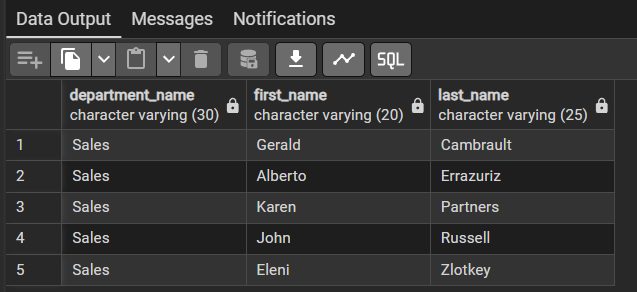
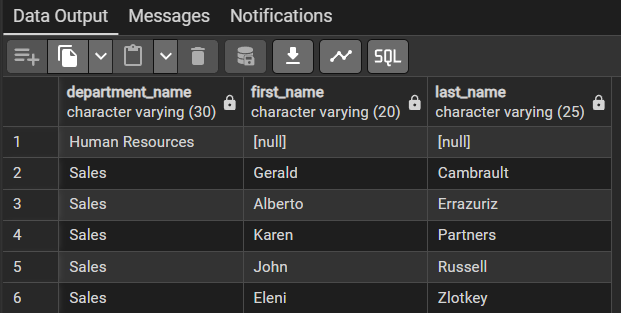
poprawki zad3

Changed region(s): [[0.0, 0.0308, 1.0, 0.9863], [0.9791, 0.8014, 1.0, 0.8322], [0.9791, 0.6781, 1.0, 0.7089]]

diff --git a/T07/Sprawozdanie ZD2.md b/T07/Sprawozdanie ZD2.md
@@ -351,7 +351,7 @@ BEGIN
 
     SELECT d.department_name, z.first_name, z.last_name FROM departments d
     JOIN locations l ON l.location_id = d.location_id
-    JOIN #zmienieni z ON z.department_id = d.department_id
+    LEFT JOIN #zmienieni z ON z.department_id = d.department_id
     WHERE l.country_id = @country_id
     ORDER BY d.department_name, z.last_name, z.first_name;
 
@@ -379,7 +379,6 @@ DECLARE
     departament_id NUMERIC(4);
     departament_name VARCHAR(30);
     liczba_w_dziale INT;
-    liczba_zaktualizowanych BIGINT;
 
     departament_cursor CURSOR FOR
         SELECT d.department_id, d.department_name FROM departments d
@@ -463,7 +462,7 @@ BEGIN
     OPEN departamenty FOR
         SELECT d.department_name, z.first_name, z.last_name FROM departments d
         JOIN locations l ON l.location_id = d.location_id
-        JOIN pg_temp.zmienieni z ON z.department_id = d.department_id
+        LEFT JOIN pg_temp.zmienieni z ON z.department_id = d.department_id
         WHERE l.country_id = v_country_id
         ORDER BY d.department_name, z.last_name, z.first_name;
 END;
@@ -478,9 +477,10 @@ $$;
 ```sql
 ALTER TABLE job_history
 DROP CONSTRAINT IF EXISTS jhist_emp_id_st_date_pk;
+```
 
+```sql
 DECLARE @wynik INT;
-
 EXEC dbo.Zmiana_stanowisk
     @stare_stanowisko = 'Sales Manager',
     @nowe_stanowisko  = 'Sales Representative',
@@ -488,9 +488,10 @@ EXEC dbo.Zmiana_stanowisk
     @liczba_zmienionych = @wynik OUTPUT;
 
 PRINT 'Liczba zmodyfikowanych rekordów: ' + CAST(@wynik AS VARCHAR(100));
+```
 
+```sql
 DECLARE @wynik INT;
-
 EXEC dbo.Zmiana_stanowisk
     @stare_stanowisko = 'Sales Manager',
     @nowe_stanowisko  = 'Sales Representative',
@@ -498,9 +499,10 @@ EXEC dbo.Zmiana_stanowisk
     @liczba_zmienionych = @wynik OUTPUT;
 
 PRINT 'Liczba zmodyfikowanych rekordów: ' + CAST(@wynik AS VARCHAR(100));
+```
 
+```sql
 DECLARE @wynik INT;
-
 EXEC dbo.Zmiana_stanowisk
     @stare_stanowisko = 'Sales Manager',
     @nowe_stanowisko  = 'Sales Representative',
@@ -515,7 +517,9 @@ PRINT 'Liczba zmodyfikowanych rekordów: ' + CAST(@wynik AS VARCHAR(100));
 ```sql
 ALTER TABLE job_history
 DROP CONSTRAINT IF EXISTS jhist_emp_id_st_date_pk;
+```
 
+```sql
 BEGIN;
 CALL zmiana_stanowisk(
     'Sales Manager',
@@ -528,7 +532,9 @@ CALL zmiana_stanowisk(
 FETCH ALL FROM wynik_emaile;
 FETCH ALL FROM wynik_departamenty;
 COMMIT;
+```
 
+```sql
 BEGIN;
 CALL zmiana_stanowisk(
     'Sales Manager',
@@ -541,7 +547,9 @@ CALL zmiana_stanowisk(
 FETCH ALL FROM wynik_emaile;
 FETCH ALL FROM wynik_departamenty;
 COMMIT;
+```
 
+```sql
 BEGIN;
 CALL zmiana_stanowisk(
     'Sales Manager',
